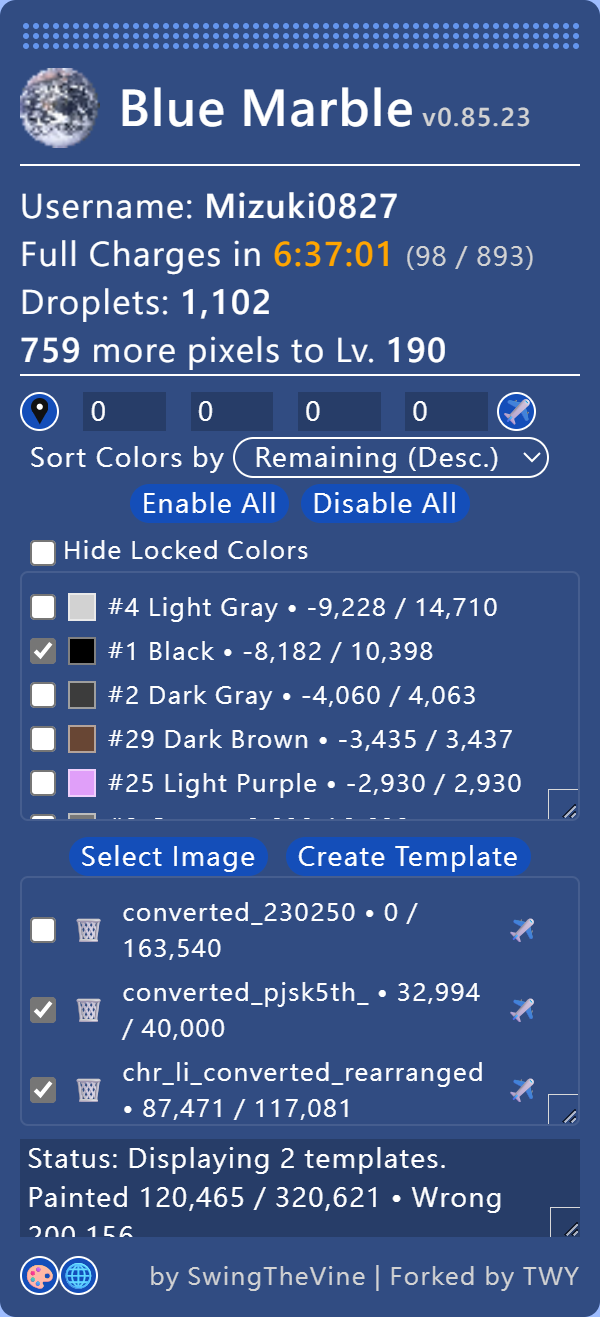
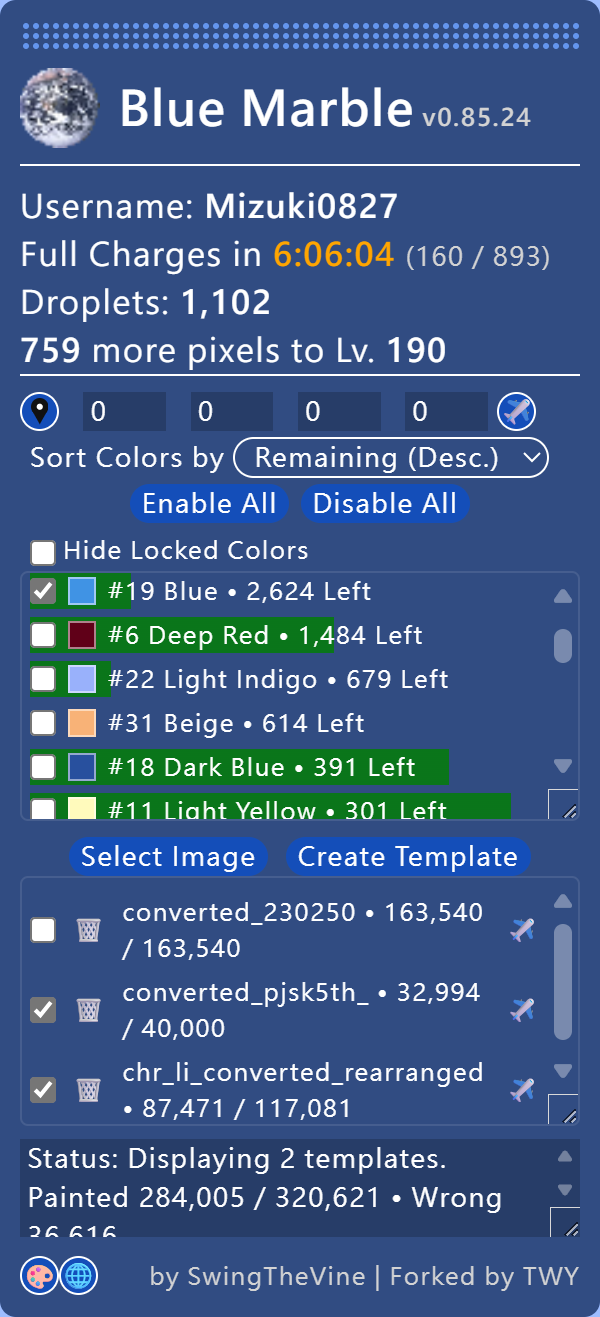
Update README.md

diff --git a/docs/README.md b/docs/README.md
@@ -112,7 +112,9 @@ To use it, copy the content and paste it in the URL field when creating a bookma
     <li>Optimize the for-loop for faster response.</li>
     <li>Allow multiple templates to be used at the same time.</li>
     <li>A button to teleport to the top-left corner of the selected template.</li>
+    <li>Allow locked colors (colors that are not unlocked) to be hidden from the color list</li>
     <li>Different options to change the display order of the colors, including (un)painted count, hue, and luminance.</li>
+    <li>Progress bar behind each color in the list that shows the relative progress</li>
   </ul>
 </p>
 
